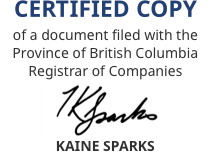
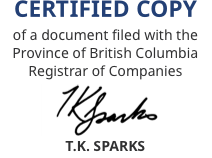
12526 Registrar Signature T.K. Sparks + Update Certificate signature order

Changed region(s): [[0.2547, 0.8861, 0.7358, 0.962]]

diff --git a/legal-api/report-templates/template-parts/common/correctedOnCertificate.html b/legal-api/report-templates/template-parts/common/correctedOnCertificate.html
@@ -6,15 +6,15 @@
       Corrected on {{date}}<br/>at {{time}}
       {% endautoescape %}
       {% if currentRegistrarInfo %}
-          <div class="current-registrar-name">{{ currentRegistrarInfo.name }}</div>
-          <div class="current-registrar-title">{{ currentRegistrarInfo.title }}</div>
-          <div class="current-registrar-signature">
-             <img alt="signature" src={{currentRegistrarInfo.signature}}>
-          </div>
-          <div class="current-registrar-province-country-info">
-             <div>Province of British Columbia</div>
-             <div>CANADA</div>
-          </div>
+         <div class="current-registrar-signature">
+            <img alt="signature" src={{currentRegistrarInfo.signature}}>
+         </div>
+         <div class="current-registrar-name">{{ currentRegistrarInfo.name }}</div>
+         <div class="current-registrar-title">{{ currentRegistrarInfo.title }}</div>
+         <div class="current-registrar-province-country-info">
+            <div>PROVINCE OF BRITISH COLUMBIA</div>
+            <div>CANADA</div>
+         </div>
       {% endif %}
    </div>
 </div>

diff --git a/legal-api/report-templates/certificateOfDissolution.html b/legal-api/report-templates/certificateOfDissolution.html
@@ -47,14 +47,14 @@
             <td class="seal-container">[[common/certificateSeal.html]]</td>
             <td class="registrar-info-container">
               <div class="registrar-info">
+                <div>[[common/certificateRegistrarSignature.html]]</div>
                 <div>
                   <div class="registrar-name">{{ registrarInfo.name }}</div>
                   <div class="registrar-title">{{ registrarInfo.title }}</div>
                 </div>
-                <div>[[common/certificateRegistrarSignature.html]]</div>
                 <div class="province-country-info">
-                  <div>Province of British Columbia</div>
-                  <div class="country">Canada</div>
+                  <div>PROVINCE OF BRITISH COLUMBIA</div>
+                  <div class="country">CANADA</div>
                 </div>
               </div>
             </td>

diff --git a/legal-api/report-templates/certificateOfIncorporation.html b/legal-api/report-templates/certificateOfIncorporation.html
@@ -47,14 +47,14 @@
             <td class="seal-container">[[common/certificateSeal.html]]</td>
             <td class="registrar-info-container">
               <div class="registrar-info">
+                <div>[[common/certificateRegistrarSignature.html]]</div>
                 <div>
                   <div class="registrar-name">{{ registrarInfo.name }}</div>
                   <div class="registrar-title">{{ registrarInfo.title }}</div>
                 </div>
-                <div>[[common/certificateRegistrarSignature.html]]</div>
                 <div class="province-country-info">
-                  <div>Province of British Columbia</div>
-                  <div class="country">Canada</div>
+                  <div>PROVINCE OF BRITISH COLUMBIA</div>
+                  <div class="country">CANADA</div>
                 </div>
               </div>
             </td>

diff --git a/legal-api/report-templates/certificateOfNameChange.html b/legal-api/report-templates/certificateOfNameChange.html
@@ -48,14 +48,14 @@
             <td class="seal-container">[[common/certificateSeal.html]]</td>
             <td class="registrar-info-container">
               <div class="registrar-info">
+                <div>[[common/certificateRegistrarSignature.html]]</div>
                 <div>
                   <div class="registrar-name">{{ registrarInfo.name }}</div>
                   <div class="registrar-title">{{ registrarInfo.title }}</div>
                 </div>
-                <div>[[common/certificateRegistrarSignature.html]]</div>
                 <div class="province-country-info">
-                  <div>Province of British Columbia</div>
-                  <div class="country">Canada</div>
+                  <div>PROVINCE OF BRITISH COLUMBIA</div>
+                  <div class="country">CANADA</div>
                 </div>
               </div>
             </td>

diff --git a/legal-api/src/legal_api/reports/registrar_meta.py b/legal-api/src/legal_api/reports/registrar_meta.py
@@ -44,7 +44,7 @@ class RegistrarInfo:   # pylint: disable=too-few-public-methods
             'endDate': '2022-05-31T23:59:59'
         },
         {
-            'name': 'KAINE SPARKS',
+            'name': 'T.K. SPARKS',
             'title': 'Registrar of Companies',
             'signatureImage': 'registrar_signature_4.png',
             'signatureImageAndText': 'registrar_signature_and_text_4.png',
